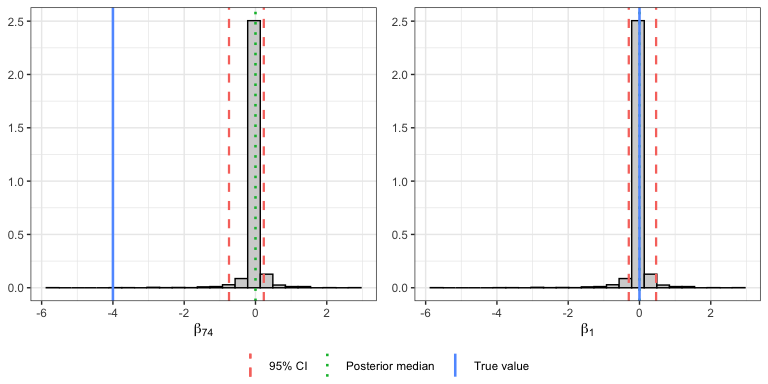
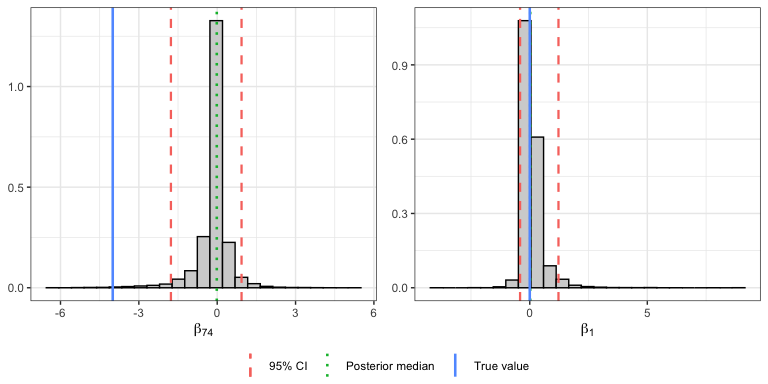
Updated Readme

diff --git a/README.md b/README.md
@@ -75,10 +75,20 @@ res <- BayesCoMET::comet(y = y_train, xlist = xlist_train, zlist = zlist_train,
                          mis = rep(n_train, m),
                          K = 6, kdims = kdims, a0 = 0.01, b0 = 0.01, gammaVar0 = c(1, 1),
                          R_list = R_list, S_list = S_list,
-                         niter = 1100, nburn = 100, nthin = 1, store_ranef = TRUE)
+                         niter = 11000, nburn = 1000, nthin = 1, store_ranef = TRUE)
 ```
 
-    ## iteration:  1000
+    ## iteration:  1000 
+    ## iteration:  2000 
+    ## iteration:  3000 
+    ## iteration:  4000 
+    ## iteration:  5000 
+    ## iteration:  6000 
+    ## iteration:  7000 
+    ## iteration:  8000 
+    ## iteration:  9000 
+    ## iteration:  10000 
+    ## iteration:  11000
 
 ``` r
 ## Time taken ##
@@ -86,12 +96,58 @@ res$sampler_time
 ```
 
     ##    user  system elapsed 
-    ##  48.204   1.131  49.238
+    ## 474.975  13.994 487.709
 
 ``` r
 betaPostMed <- apply(res$betaSamp, 2, median)
 vecB_true <- as.vector(trueB)
+
+vecB_true
 ```
+
+    ##    [1]  0  0  0  0  0  0  0  0  0  0  0  0  0  0  0  0  0  0  0  0  0  0  0  0
+    ##   [25]  0  0  0  0  0  0  0  0  0  0  0  0  0  0  0  0  0  0  0  0  0  0  0  0
+    ##   [49]  0  0  0  0  0  0  0  0  0  0  0  0  0  0  0  0  0 -2  0 -1 -2  2  1  2
+    ##   [73]  1 -4 -1  2  1 -2  2  0  2  0 -2  2  0  0  0  0  0 -2  0 -1  2  0  1  4
+    ##   [97]  0  0  0  0  0  0  0  0  0  0  0  0  0  0  0  0  0  0  0  0  0  0  0  0
+    ##  [121]  0  0  0  0  0  0  0  0  0 -2  0 -1 -2  2  0  2  1 -2 -1  2  0 -2  0  0
+    ##  [145]  2  0 -2  0 -1  0  0  0 -2  0  0 -1  2  0  1  4  0  0  0  0  0  0  0  0
+    ##  [169]  0  0  0  0  0  0  0  0  0  0  0  0  0  0  0  0  0  0  0  0  0  0  0  0
+    ##  [193]  0  0  0  0  2  0  0 -2  0  2  0 -2  0  2  0  0 -2  0  2  0  0  0  0  0
+    ##  [217]  2  0  0  0 -2  0  0 -4  0  4  0  2  0 -4 -2  0 -6  0  2  0  0  0  2  0
+    ##  [241]  0  0  0  0  2  0  4  0  0  0 -4  2  0  0 -2 -4  0  0  0  0  0  0  0  0
+    ##  [265]  0  0  0  0  0  0  0  0  0  0  0  0  0  0  0  0  0  0  0  0  0  0  0  0
+    ##  [289]  0  0  0  0  0  0  0  0  0  0  0  0  0  0  0  0  0  0  0  0  0  0  0  0
+    ##  [313]  0  0  0  0  0  0  0  0  0  0  0  0  0  0  0  0  0  0  0  0  0  0  0  0
+    ##  [337]  0  0  0  0  0  0  0  0  0  0  0  0  0  0  0  0  0  0  0  0  0  0 -2  0
+    ##  [361] -4  0  0  0  0  0  2  0  0  0  0  0  0  0  4  0  0  0 -4  0  0  0  0 -4
+    ##  [385]  0  0  0  0  0  0  0  0  0  0  0  0  0  0  0  0  0  0  0  0  0  0  0  0
+    ##  [409]  0  0  0  0  0  0  0  0  0  0  0  0  0  0  0  0  2  2  0  0 -1  0 -3  0
+    ##  [433]  0  0  0 -2 -1  0 -2  0 -2  2  2  0  0  0  0  2  0  0  0  0 -1  0  0  1
+    ##  [457]  0 -1  0  1  0 -1  0  0  1  0 -1  0  0  0  0  0 -1  0  0  0  1  0  0  2
+    ##  [481]  0  0  0  0  0  0 -1  0  0  2  0  0 -1  0 -2  0  0  0  0 -2 -1  0  0  0
+    ##  [505] -2  2  0  0  0  0  0  0  0  0  0  0  0  0  0  0  0  0  0  0  0  0  0  0
+    ##  [529]  0  0  0  0  0  0  0  0  0  0  0  0  0  0  0  0  0  0  0  0  0  0 -1  0
+    ##  [553]  0  2  0  0 -1  0 -2  0  0  0  0 -2 -1  0  0  0 -2  2  0  0  0  0  0  0
+    ##  [577]  0 -4  0 -2  0  4  2  0  2 -4 -2  0  2  0  4  0  0  0  0  4  0  0  0  0
+    ##  [601]  4 -4  0 -2  0  0  2  0  0  2  0  1  0 -2  0  0 -1  0  1  0  0  0  0  0
+    ##  [625]  0  0  0  0  1  0  0  0  0  0  0  1  0  0 -1  0  0  0  0  0 -2  0  0  2
+    ##  [649]  0 -2  0  2  0 -2  0  0  2  0 -2  0  0  0  0  0 -2  0  0  0  2  0  0  4
+    ##  [673]  0  0  0  0  0  0  3  0  4 -2  0  0  1  0  0  0  0  0  0  2  1  0 -4  0
+    ##  [697]  2 -2  4  0  0  0  0  4  0  0  0  0  1  0  1 -1  2  1  0 -1  0  1 -1  0
+    ##  [721] -1  0  1  0  0  0 -2  0  1  0  2  0 -1  0  0  0  0  0  0  0  0  0  1  0
+    ##  [745]  0 -2  0  0  1  0  2  0  0  0  0  2  1  0  0  0  2 -2  0  0  0  0  0  0
+    ##  [769]  0  0  0  0 -1  0  2  1  4 -1  0  1  0 -1 -2  0  1  0 -1  0  0  0 -4  0
+    ##  [793] -1  0  4  0  1  0  0  6  0  0  0  0  0  0  0  0  0  0  0  0  0  0  0  0
+    ##  [817]  0  0  0  0  0  0  0  0  0  0  0  0  0  0  0  0  0  0  0  0  0  0  0  0
+    ##  [841]  0  0  0  0  0  0  0  0  0  0  0  0  0  0  0  0  0  0  0  0  0  0  0  0
+    ##  [865]  0  0  0  0  0  0  0  0  0  0  0  0  0  0  0  0  0  0  0  0  0  0  0  0
+    ##  [889]  0  0  0  0  0  0  0  0  0  0  0  0  1  0  2 -1  0 -3  0 -1  2  1  4  0
+    ##  [913] -1  0  1  4  2  0  0  0  5 -4  0  0 -1  0  0 -2  0  0  0  0  0  0 -2  0
+    ##  [937] -4  0  0  0  0  0  2  0  0  0  0  0  0  0  4  0  0  0 -4  0  0  0  0 -4
+    ##  [961]  0  0  0  0  0  0  1  0  2  0  0  0  0  0 -1  0  0  0  0  0  0  0 -2  0
+    ##  [985]  0  0  2  0  0  0  0  2  0  4  0  2  1 -4  2 -1  2  1  2 -1  0  1 -2  0
+    ## [1009] -1  0  1  0  2  0 -4  0  1  0  4  2 -1  0 -2  2
 
 ![](README_files/figure-gfm/visualize_betaSamps-1.png)<!-- -->
 
